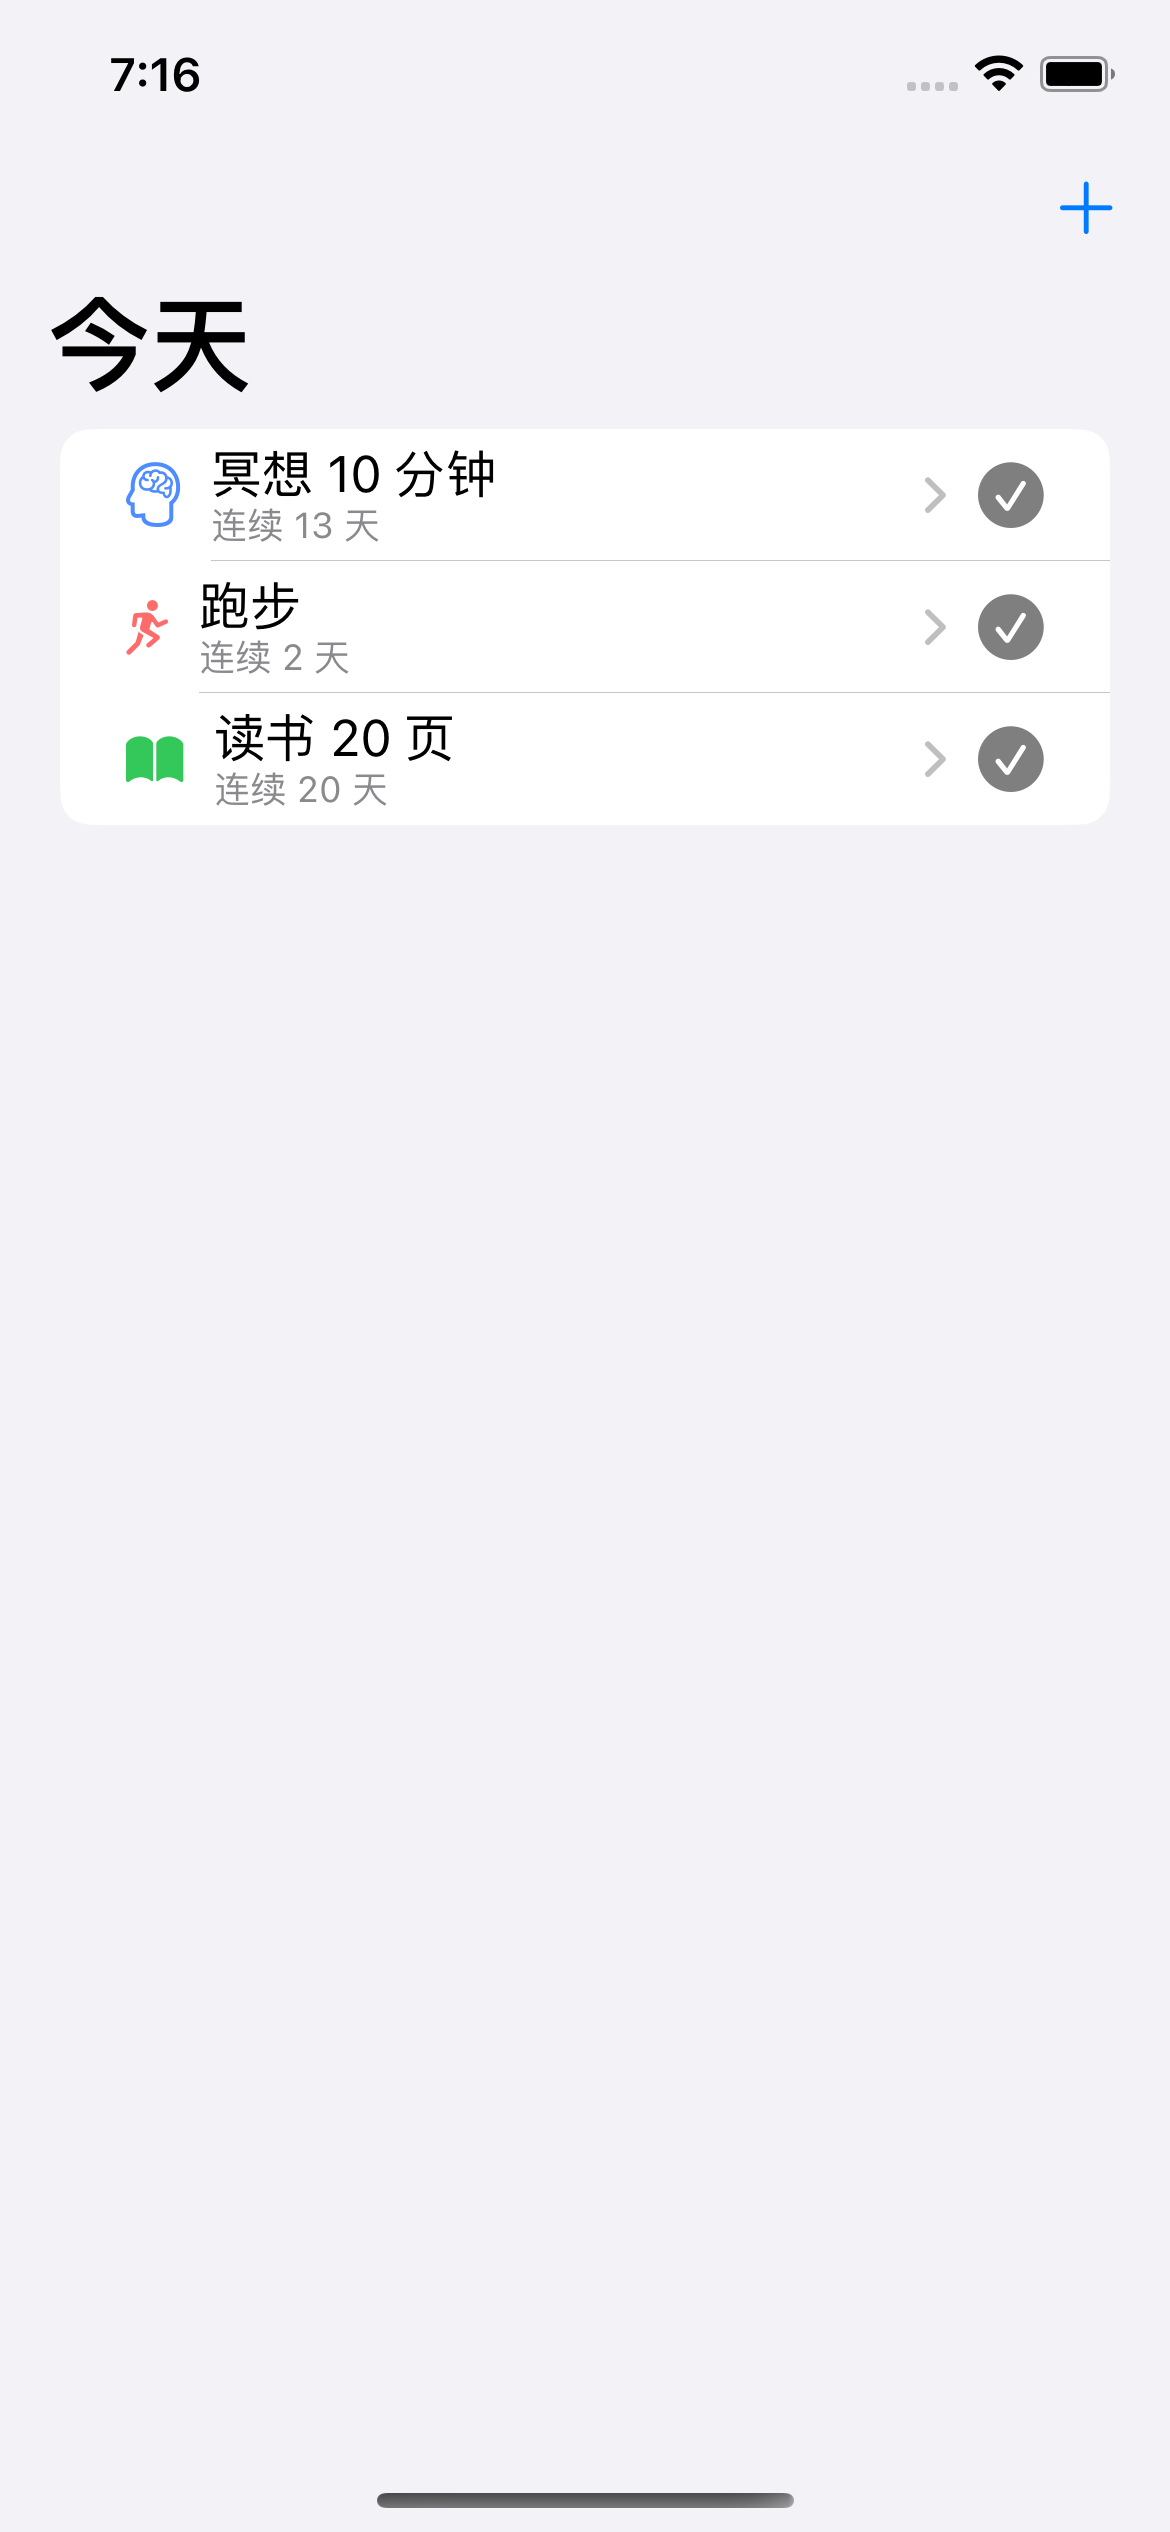
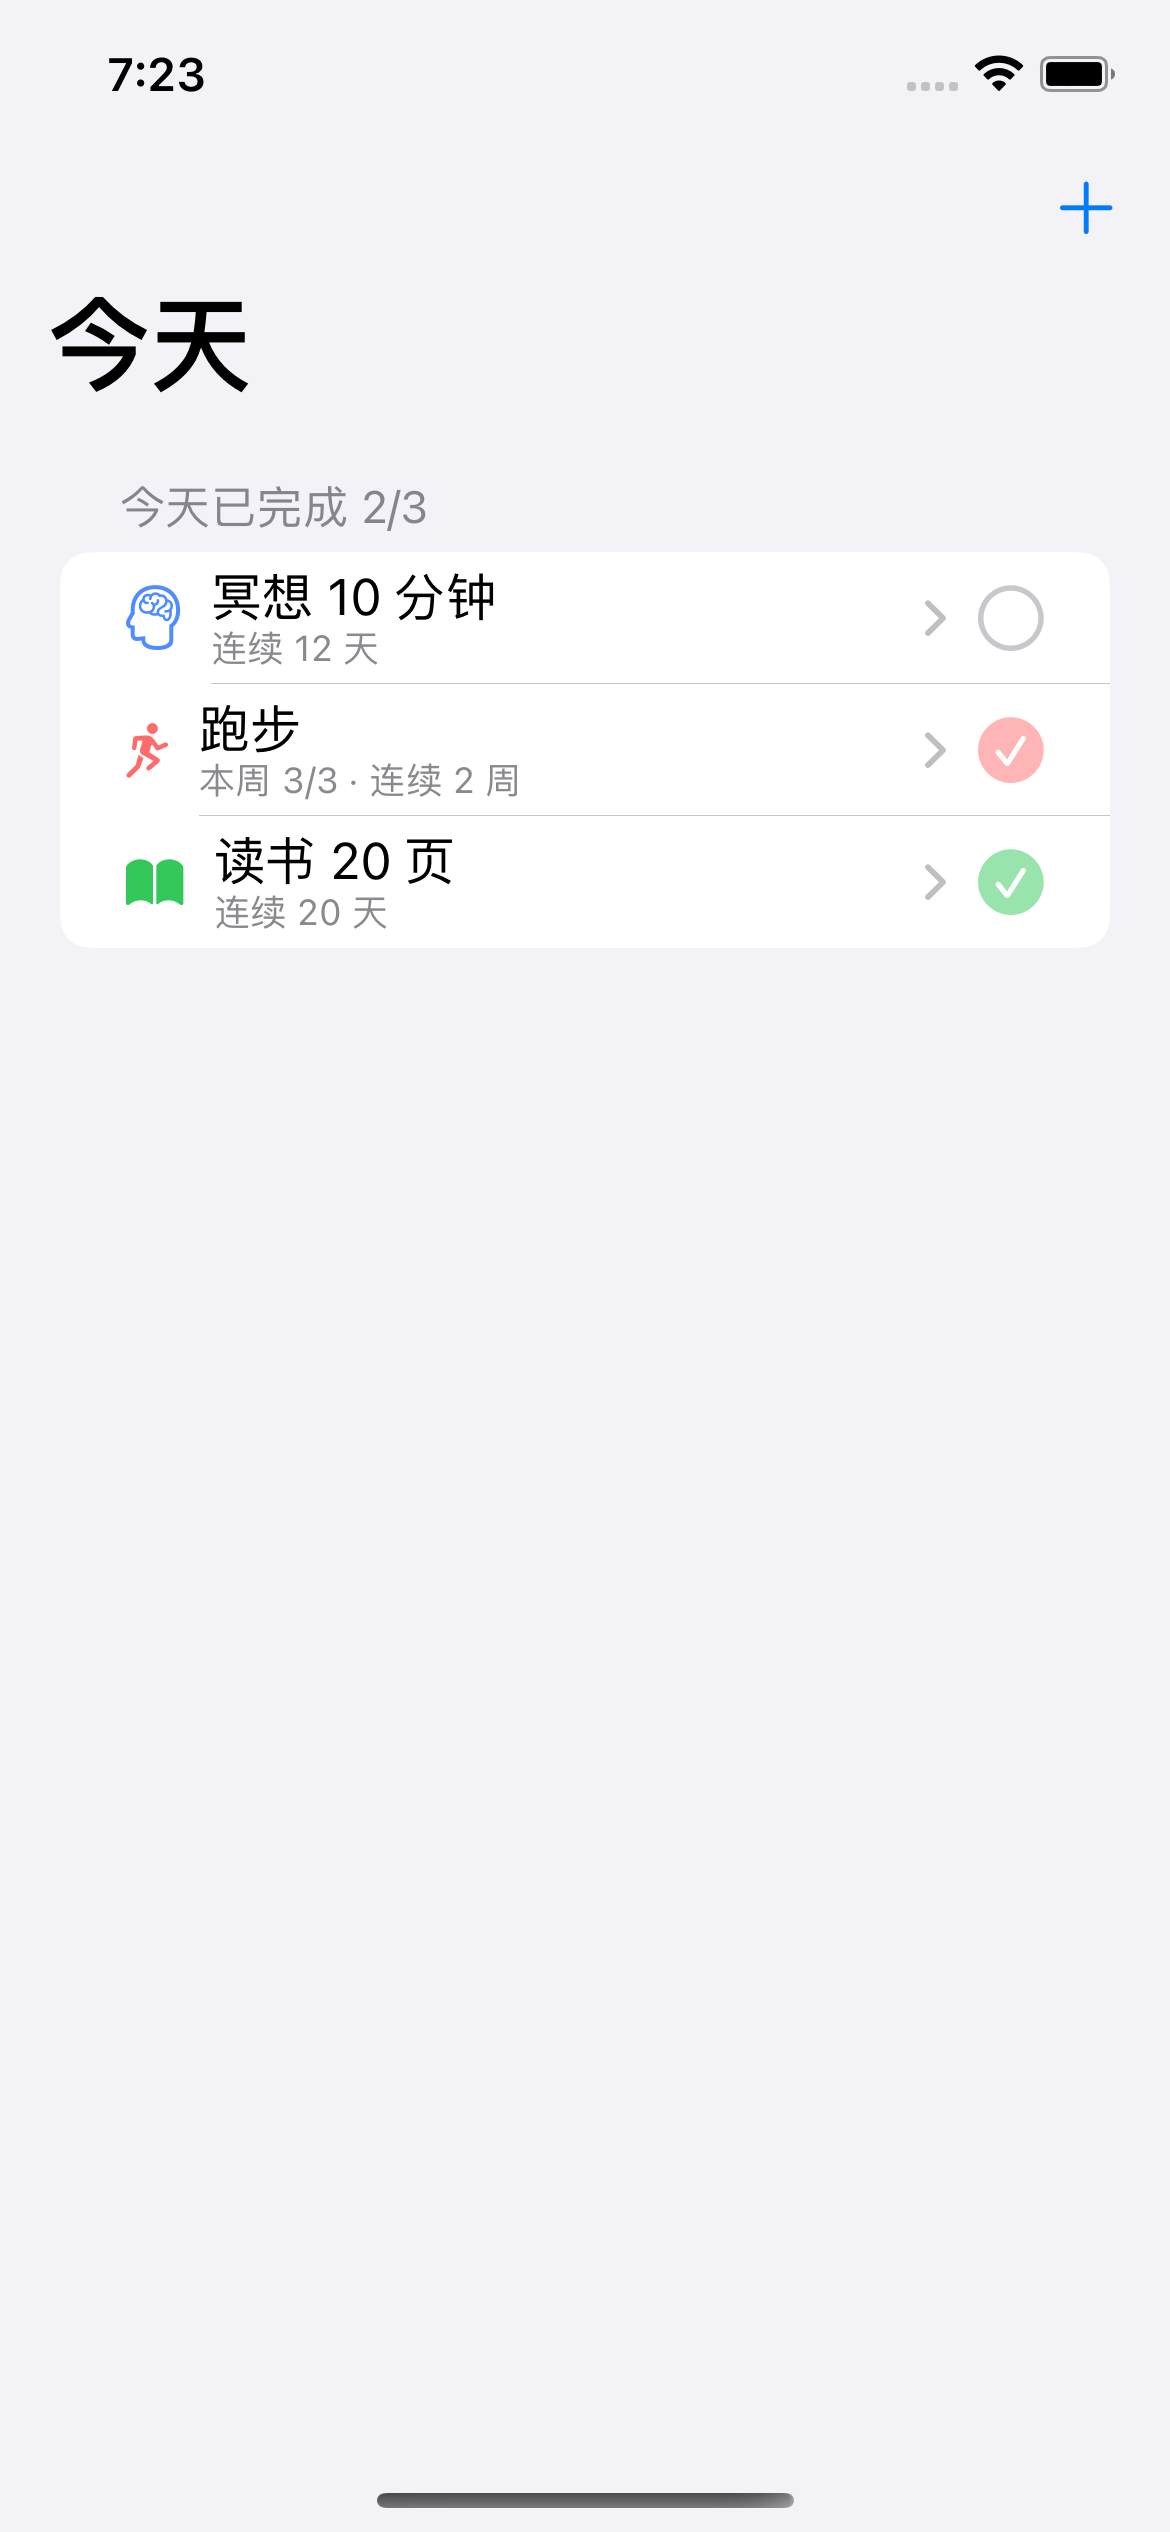
W3-4 polish: first-screen empty state, today progress header, weekly subtitle, haptic checkin
- Empty state with CTA when no habits
- '今天已完成 x/y' section header
- Weekly habits show '本周 x/N · 连续 w 周' subtitle
- Checkin circle tinted habit color, medium haptic on successful checkin
- Demo seed leaves 冥想 unchecked today for realistic 2/3 screenshot

diff --git a/Steady/ContentView.swift b/Steady/ContentView.swift
@@ -7,39 +7,28 @@ struct ContentView: View {
     @State private var habits: [HabitEntity] = []
     @State private var streaks: [UUID: Int] = [:]
     @State private var checkedToday: Set<UUID> = []
+    @State private var weeklyProgress: [UUID: Int] = [:]
     @State private var showAdd = false
 
     private var repo: HabitRepository { HabitRepository(context: context) }
 
     var body: some View {
         NavigationView {
-            List {
-                ForEach(habits, id: \.id) { habit in
-                    HStack {
-                        NavigationLink {
-                            HabitDetailView(habit: habit, repo: repo)
-                        } label: {
-                            HStack {
-                                Image(systemName: habit.icon)
-                                    .foregroundColor(Color(hex: habit.colorHex))
-                                VStack(alignment: .leading) {
-                                    Text(habit.name)
-                                    Text("连续 \(streaks[habit.id] ?? 0) 天")
-                                        .font(.caption)
-                                        .foregroundColor(.secondary)
-                                }
+            Group {
+                if habits.isEmpty {
+                    emptyState
+                } else {
+                    List {
+                        Section {
+                            ForEach(habits, id: \.id) { habit in
+                                habitRow(habit)
                             }
+                        } header: {
+                            Text("今天已完成 \(checkedToday.count)/\(habits.count)")
+                                .textCase(nil)
+                                .font(.subheadline)
+                                .foregroundColor(.secondary)
                         }
-                        Spacer()
-                        Button {
-                            repo.checkin(habitId: habit.id)
-                            reload()
-                        } label: {
-                            Image(systemName: checkedToday.contains(habit.id) ? "checkmark.circle.fill" : "circle")
-                                .font(.title2)
-                        }
-                        .buttonStyle(.plain)
-                        .disabled(checkedToday.contains(habit.id))
                     }
                 }
             }
@@ -54,15 +43,83 @@ struct ContentView: View {
         }
     }
 
+    /// 空态：新用户引导（MVP_SPEC §1 首屏 ≤1 点击创建）
+    private var emptyState: some View {
+        VStack(spacing: 16) {
+            Image(systemName: "checkmark.circle")
+                .font(.system(size: 56))
+                .foregroundColor(.accentColor)
+            Text("还没有习惯")
+                .font(.title2).bold()
+            Text("从一个最小行动开始，\n断一天没关系，别断两天。")
+                .multilineTextAlignment(.center)
+                .foregroundColor(.secondary)
+            Button("创建第一个习惯") { showAdd = true }
+                .buttonStyle(.borderedProminent)
+                .padding(.top, 8)
+        }
+        .padding()
+    }
+
+    private func habitRow(_ habit: HabitEntity) -> some View {
+        HStack {
+            NavigationLink {
+                HabitDetailView(habit: habit, repo: repo)
+            } label: {
+                HStack {
+                    Image(systemName: habit.icon)
+                        .foregroundColor(Color(hex: habit.colorHex))
+                    VStack(alignment: .leading) {
+                        Text(habit.name)
+                        Text(subtitle(for: habit))
+                            .font(.caption)
+                            .foregroundColor(.secondary)
+                    }
+                }
+            }
+            Spacer()
+            Button {
+                let generator = UIImpactFeedbackGenerator(style: .medium)
+                generator.prepare()
+                if repo.checkin(habitId: habit.id) {
+                    generator.impactOccurred()
+                }
+                reload()
+            } label: {
+                Image(systemName: checkedToday.contains(habit.id) ? "checkmark.circle.fill" : "circle")
+                    .font(.title2)
+                    .foregroundColor(checkedToday.contains(habit.id) ? Color(hex: habit.colorHex) : Color(.systemGray3))
+            }
+            .buttonStyle(.plain)
+            .disabled(checkedToday.contains(habit.id))
+        }
+    }
+
+    /// daily → "连续 X 天"；weekly → "本周 x/N · 连续 w 周"
+    private func subtitle(for habit: HabitEntity) -> String {
+        let streak = streaks[habit.id] ?? 0
+        if habit.frequencyKind == "weekly" {
+            let done = weeklyProgress[habit.id] ?? 0
+            return "本周 \(done)/\(habit.timesPerWeek) · 连续 \(streak) 周"
+        }
+        return "连续 \(streak) 天"
+    }
+
     private func reload() {
         habits = repo.activeHabits()
-        let today = HabitRepository.todayKey()
+        let today = DayKey(HabitRepository.todayKey())
+        let weekStart = StreakEngine.weekStart(today)
         streaks = [:]
         checkedToday = []
+        weeklyProgress = [:]
         for h in habits {
             streaks[h.id] = repo.streakState(for: h).current
-            if repo.fetchCheckin(habitId: h.id, day: today) != nil {
+            let checkins = repo.allCheckins(habitId: h.id)
+            if checkins.contains(where: { $0.day == today.raw }) {
                 checkedToday.insert(h.id)
+            }
+            if h.frequencyKind == "weekly" {
+                weeklyProgress[h.id] = checkins.filter { $0.day >= weekStart.raw && $0.day <= today.raw }.count
             }
         }
     }

diff --git a/Steady/SteadyApp.swift b/Steady/SteadyApp.swift
@@ -26,7 +26,8 @@ struct SteadyApp: App {
         let today = DayKey(HabitRepository.todayKey())
         let created = StreakEngine.addDays(today, -21).raw
         let specs: [(String, String, String, Frequency, [Int])] = [
-            ("冥想 10 分钟", "brain.head.profile", "4F8CFF", .daily, Array(0...13).filter { $0 != 5 }),
+            // 冥想今天故意不打卡（截图像真实使用中的 2/3 状态）
+            ("冥想 10 分钟", "brain.head.profile", "4F8CFF", .daily, Array(1...13).filter { $0 != 5 }),
             ("跑步", "figure.run", "FF6B6B", .timesPerWeek(3), [0, 1, 3, 7, 8, 10, 14, 15]),
             ("读书 20 页", "book.fill", "34C759", .daily, Array(0...20).filter { $0 != 9 }),
         ]
